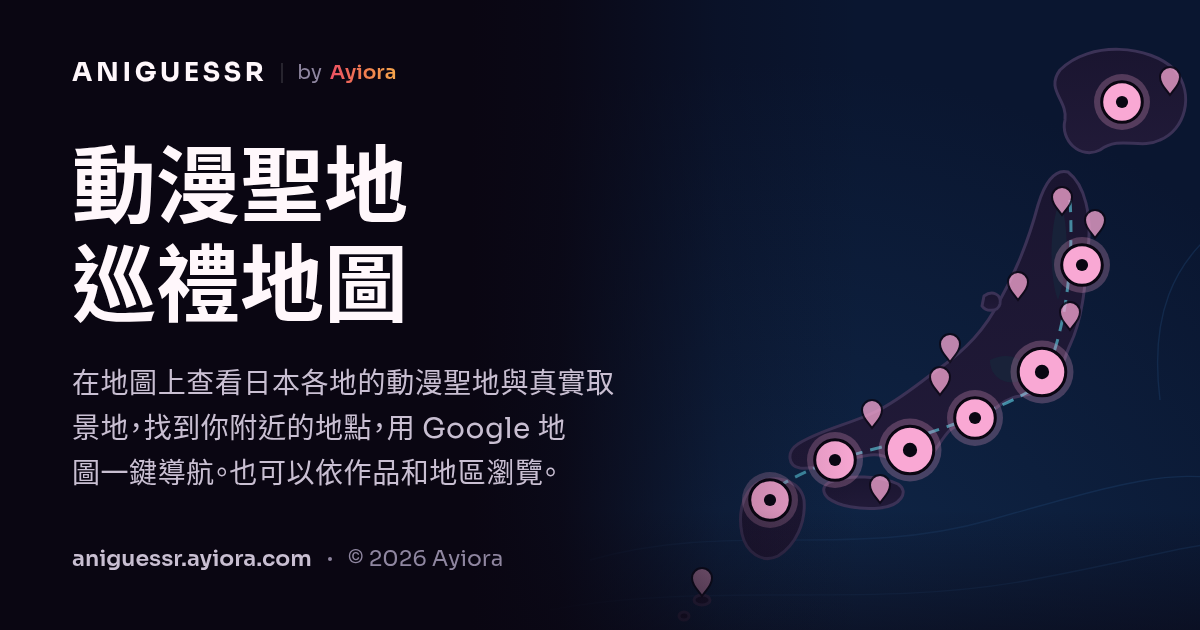
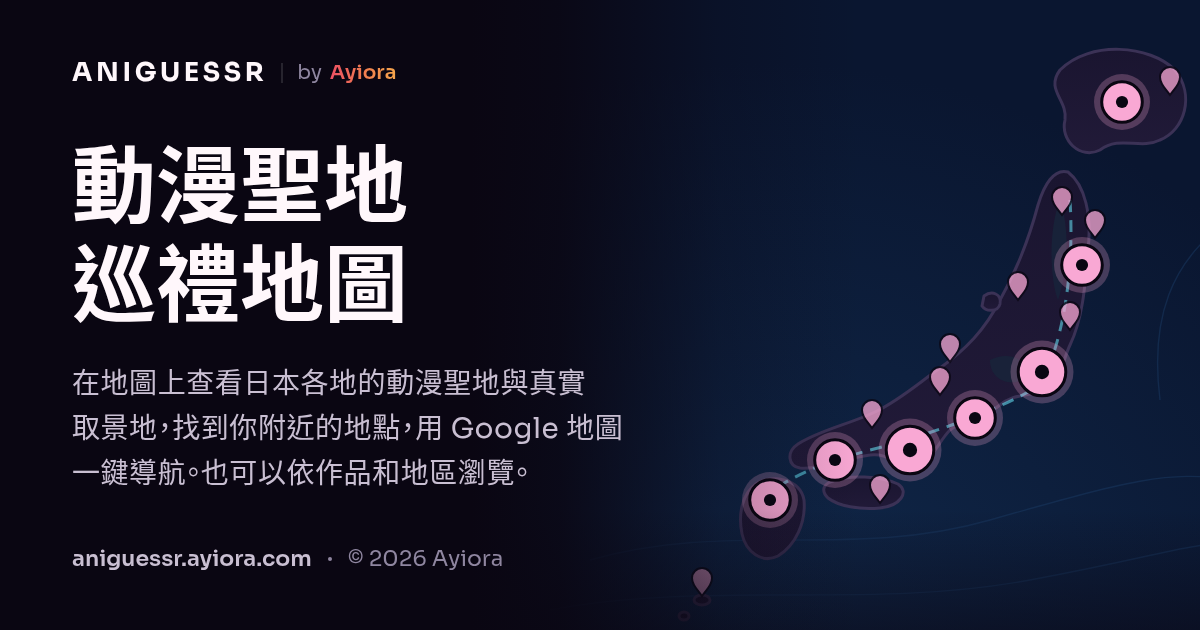
Refresh homepage share images and phrase-break CJK og text.
Bump HOME_OG_ASSET_VERSION to 2 for the corrected PNGs. Spot, work, and area cards segment ja/zh/zh-tw with BudouX, then merge the no-break word list so terms like 取景地 and 地图 stay on one line.

Changed region(s): [[0.0617, 0.6333, 0.5242, 0.7841], [0.4933, 0.573, 0.5242, 0.6333]]

diff --git a/src/lib/og/text.ts b/src/lib/og/text.ts
@@ -1,4 +1,8 @@
-import { loadDefaultJapaneseParser } from "budoux";
+import {
+  loadDefaultJapaneseParser,
+  loadDefaultSimplifiedChineseParser,
+  loadDefaultTraditionalChineseParser,
+} from "budoux";
 
 import type { OgLocale } from "~/lib/og/copy";
 
@@ -12,7 +16,50 @@ export const COL_W = 640;
 export const SAFETY = 0.96;
 export const CHIP_CAP = 15;
 
+/**
+ * Inlined BudouX models. `.parse` is the pure segmenter (no DOM, no filesystem),
+ * so the same parsers run in the Node OG routes and in an Edge bundle.
+ */
 const japanese = loadDefaultJapaneseParser();
+const simplifiedChinese = loadDefaultSimplifiedChineseParser();
+const traditionalChinese = loadDefaultTraditionalChineseParser();
+
+/**
+ * BudouX still splits some Chinese words. Merge these back into one token.
+ * Spec §5.2 `NOBREAK` / `keepWords`.
+ */
+export const NOBREAK: Record<"zh" | "zh-tw", readonly string[]> = {
+  zh: [
+    "取景地",
+    "Google 地图",
+    "动漫",
+    "圣地",
+    "巡礼",
+    "地图",
+    "导航",
+    "附近",
+    "地点",
+    "作品",
+    "地区",
+    "浏览",
+  ],
+  "zh-tw": [
+    "取景地",
+    "Google 地圖",
+    "動漫",
+    "聖地",
+    "巡禮",
+    "地圖",
+    "導航",
+    "附近",
+    "地點",
+    "作品",
+    "地區",
+    "瀏覽",
+  ],
+};
+
+const CLOSING_PUNCT = /^[，。、！？：；」』）》·・…]+/u;
 
 export interface FitStep {
   size: number;
@@ -103,27 +150,74 @@ export function units(value: string): number {
   return total;
 }
 
-/** ja phrases joined with ZWSP, same as the design build. */
+/** Phrase boundaries as U+200B. ja / zh / zh-tw use BudouX; en is unchanged. */
 export function segmentForOg(text: string, lang: OgLocale): string {
-  if (lang !== "ja") return text;
-  return japanese.parse(text).join("\u200B");
+  const parser =
+    lang === "ja"
+      ? japanese
+      : lang === "zh"
+        ? simplifiedChinese
+        : lang === "zh-tw"
+          ? traditionalChinese
+          : null;
+  if (!parser) return text;
+  return parser.parse(text).join("\u200B");
+}
+
+/** Drop boundaries that fall inside a no-break word. */
+export function keepWords(tokens: readonly string[], lang: OgLocale): string[] {
+  const terms = lang === "zh" || lang === "zh-tw" ? NOBREAK[lang] : undefined;
+  if (!terms || tokens.length === 0) return [...tokens];
+  const full = tokens.join("");
+  const cut = new Set<number>();
+  let offset = 0;
+  for (const token of tokens.slice(0, -1)) {
+    offset += token.length;
+    cut.add(offset);
+  }
+  for (const term of terms) {
+    let index = full.indexOf(term);
+    while (index >= 0) {
+      for (let mark = index + 1; mark < index + term.length; mark += 1) {
+        cut.delete(mark);
+      }
+      index = full.indexOf(term, index + 1);
+    }
+  }
+  const merged: string[] = [];
+  let last = 0;
+  for (const boundary of [...cut].sort((left, right) => left - right)) {
+    merged.push(full.slice(last, boundary));
+    last = boundary;
+  }
+  merged.push(full.slice(last));
+  return merged.filter((token) => token.length > 0);
+}
+
+/** Closing punctuation stays on the previous phrase so it never starts a line. */
+function glueClosing(tokens: readonly string[]): string[] {
+  const glued: string[] = [];
+  for (const token of tokens) {
+    const previous = glued[glued.length - 1];
+    const leading = CLOSING_PUNCT.exec(token);
+    if (previous && leading?.[0]) {
+      glued[glued.length - 1] = previous + leading[0];
+      const rest = token.slice(leading[0].length);
+      if (rest) glued.push(rest);
+      continue;
+    }
+    if (token) glued.push(token);
+  }
+  return glued;
 }
 
 export function tokenize(text: string, lang: OgLocale): string[] {
   if (lang === "en") return text.split(/(?<=[ \-–/])/u);
-  if (lang === "ja") {
-    return text.split("\u200B").flatMap((part) => part.split(/(?<=[ 　])/u));
-  }
-  const out: string[] = [];
-  for (const ch of text) {
-    const previous = out[out.length - 1];
-    if (previous && /[，。、！？：；」』）》·・…]/u.test(ch)) {
-      out[out.length - 1] = previous + ch;
-    } else {
-      out.push(ch);
-    }
-  }
-  return out;
+  const segmented = text.includes("\u200B") ? text : segmentForOg(text, lang);
+  const parts = segmented
+    .split("\u200B")
+    .flatMap((part) => (part ? part.split(/(?<=[ 　])/u) : []));
+  return glueClosing(keepWords(parts, lang));
 }
 
 export function layout(tokens: string[], cap: number): string[] {
@@ -164,7 +258,11 @@ export function layout(tokens: string[], cap: number): string[] {
   return lines.map((line) => line[0].replace(/\s+$/u, ""));
 }
 
-export function balance(tokens: string[], cap: number, lineCount: number): string[] {
+export function balance(
+  tokens: string[],
+  cap: number,
+  lineCount: number,
+): string[] {
   let best = layout(tokens, cap);
   const widest = Math.max(...tokens.map((token) => units(token.trim())));
   const floor = Math.max(cap * 0.5, widest <= cap ? widest : 0);
@@ -176,7 +274,11 @@ export function balance(tokens: string[], cap: number, lineCount: number): strin
   return best;
 }
 
-export function ellipsize(last: string, cap: number, lang: OgLocale | "cjk"): string {
+export function ellipsize(
+  last: string,
+  cap: number,
+  lang: OgLocale | "cjk",
+): string {
   let value = last;
   if (lang === "en") {
     while (units(`${value}…`) > cap && value.includes(" ")) {
@@ -234,9 +336,13 @@ export function fitField(
   field: FitField,
   keep?: string,
 ): FitResult {
-  const segmented = field === "sub" || field === "spotTitle" || field === "workTitle" || field === "areaTitle"
-    ? segmentForOg(text, lang)
-    : text;
+  const segmented =
+    field === "sub" ||
+    field === "spotTitle" ||
+    field === "workTitle" ||
+    field === "areaTitle"
+      ? segmentForOg(text, lang)
+      : text;
   return fitText(segmented, lang, stepsFor(field, lang), keep);
 }
 
@@ -288,7 +394,10 @@ export function splitKeptSuffix(
   if (line === suffix) return { body: "", suffix };
   const index = line.lastIndexOf(suffix);
   if (index >= 0) {
-    return { body: line.slice(0, index).replace(/\s+$/u, ""), suffix: line.slice(index) };
+    return {
+      body: line.slice(0, index).replace(/\s+$/u, ""),
+      suffix: line.slice(index),
+    };
   }
   return { body: line, suffix: "" };
 }

diff --git a/src/lib/og/text.test.ts b/src/lib/og/text.test.ts
@@ -1,17 +1,18 @@
 import { describe, expect, it } from "vitest";
-import { segmentForOg } from "~/lib/og/text";
 import {
   edgeMargin,
   ellipsize,
   fitText,
   layout,
+  NOBREAK,
+  segmentForOg,
   splitEdgeSpace,
   splitKeptSuffix,
+  STEPS,
   tokenize,
   units,
   visibleText,
 } from "~/lib/og/text";
-import { STEPS } from "~/lib/og/text";
 
 const cjkTitle = STEPS.spotTitle.cjk;
 const enTitle = STEPS.spotTitle.en;
@@ -23,6 +24,32 @@ describe("og text fit", () => {
     const fit = fitText(text, "zh", cjkTitle);
     expect(fit.lines).toEqual(["镰仓高校前", "站旁的道口"]);
     expect(fit.truncated).toBe(false);
+  });
+
+  it("keeps the Chinese no-break list whole after BudouX", () => {
+    const sentence = (lang: "zh" | "zh-tw") =>
+      lang === "zh"
+        ? "真实取景地就在Google 地图上，浏览附近地点和动漫圣地巡礼地图，以及作品地区导航"
+        : "真實取景地就在Google 地圖上，瀏覽附近地點和動漫聖地巡禮地圖，以及作品地區導航";
+    for (const lang of ["zh", "zh-tw"] as const) {
+      const text = sentence(lang);
+      const tokens = tokenize(text, lang);
+      expect(tokens.join("")).toBe(text);
+      expect(segmentForOg(text, lang).includes("\u200B")).toBe(true);
+      for (const word of NOBREAK[lang]) {
+        expect(tokens.some((token) => token.includes(word))).toBe(true);
+      }
+      const lines = layout(tokens, 6);
+      expect(lines.join("")).toBe(text);
+      expect(lines.some((line) => line.startsWith("景地"))).toBe(false);
+    }
+    expect(
+      tokenize("真实取景地", "zh").some((token) => token.includes("取景地")),
+    ).toBe(true);
+    expect(tokenize("Google 地图", "zh")).toEqual(["Google 地图"]);
+    expect(tokenize("动漫", "zh")).toEqual(["动漫"]);
+    expect(tokenize("Google 地圖", "zh-tw")).toEqual(["Google 地圖"]);
+    expect(tokenize("動漫", "zh-tw")).toEqual(["動漫"]);
   });
 
   it("keeps closing punctuation off the start of a Chinese line", () => {
@@ -51,7 +78,9 @@ describe("og text fit", () => {
     expect(segmented.includes("踏\u200B切")).toBe(false);
     const fit = fitText(segmented, "ja", cjkTitle);
     expect(fit.lines.join("")).toBe("鎌倉高校前駅の踏切");
-    expect(fit.lines.some((line) => line === "切" || line === "踏")).toBe(false);
+    expect(fit.lines.some((line) => line === "切" || line === "踏")).toBe(
+      false,
+    );
   });
 
   it("truncates only the work title and keeps the multi-work suffix intact", () => {
@@ -80,7 +109,11 @@ describe("og text fit", () => {
   });
 
   it("omits the suffix token when the count is zero", () => {
-    const fit = fitText("青春ブタ野郎はバニーガール先輩の夢を見ない", "ja", sub);
+    const fit = fitText(
+      "青春ブタ野郎はバニーガール先輩の夢を見ない",
+      "ja",
+      sub,
+    );
     expect(fit.lines.join("")).not.toContain("ほか");
   });
 

diff --git a/src/lib/og/card.test.ts b/src/lib/og/card.test.ts
@@ -239,15 +239,15 @@ describe("og cards", () => {
     expect(homeHeadingText("ja")).toBe("アニメ聖地巡礼マップ");
     expect(homeHeadingText("zh")).toBe("动漫圣地巡礼地图");
     expect(homeHeadingText("en")).toBe("Anime Pilgrimage Map");
-    expect(HOME_OG_ASSET_VERSION).toBe("1");
-    expect(homeOgStaticPublicPath("ja")).toBe("/og/home-ja.png?v=1");
-    expect(homeOgStaticPublicPath("zh-tw")).toBe("/og/home-zh-tw.png?v=1");
+    expect(HOME_OG_ASSET_VERSION).toBe("2");
+    expect(homeOgStaticPublicPath("ja")).toBe("/og/home-ja.png?v=2");
+    expect(homeOgStaticPublicPath("zh-tw")).toBe("/og/home-zh-tw.png?v=2");
     expect(homeOgFallbackPath("en", card.version)).toBe(
       `/en/opengraph-image?v=${encodeURIComponent(card.version)}`,
     );
     const staticMeta = withHomeOg({}, "ja", { staticArt: true });
     const staticImage = {
-      url: absoluteUrl("/og/home-ja.png?v=1"),
+      url: absoluteUrl("/og/home-ja.png?v=2"),
       type: "image/png",
       width: 1200,
       height: 630,

diff --git a/src/lib/og/metadata.ts b/src/lib/og/metadata.ts
@@ -38,7 +38,7 @@ export function pilgrimageOgUrl(
  * Bump this when those PNGs are replaced. Spot, work, and area cards use
  * `OG_TEMPLATE_VERSION` instead.
  */
-export const HOME_OG_ASSET_VERSION = "1";
+export const HOME_OG_ASSET_VERSION = "2";
 
 export function homeOgStaticName(locale: HomeLocale): string {
   return `home-${locale}.png`;
